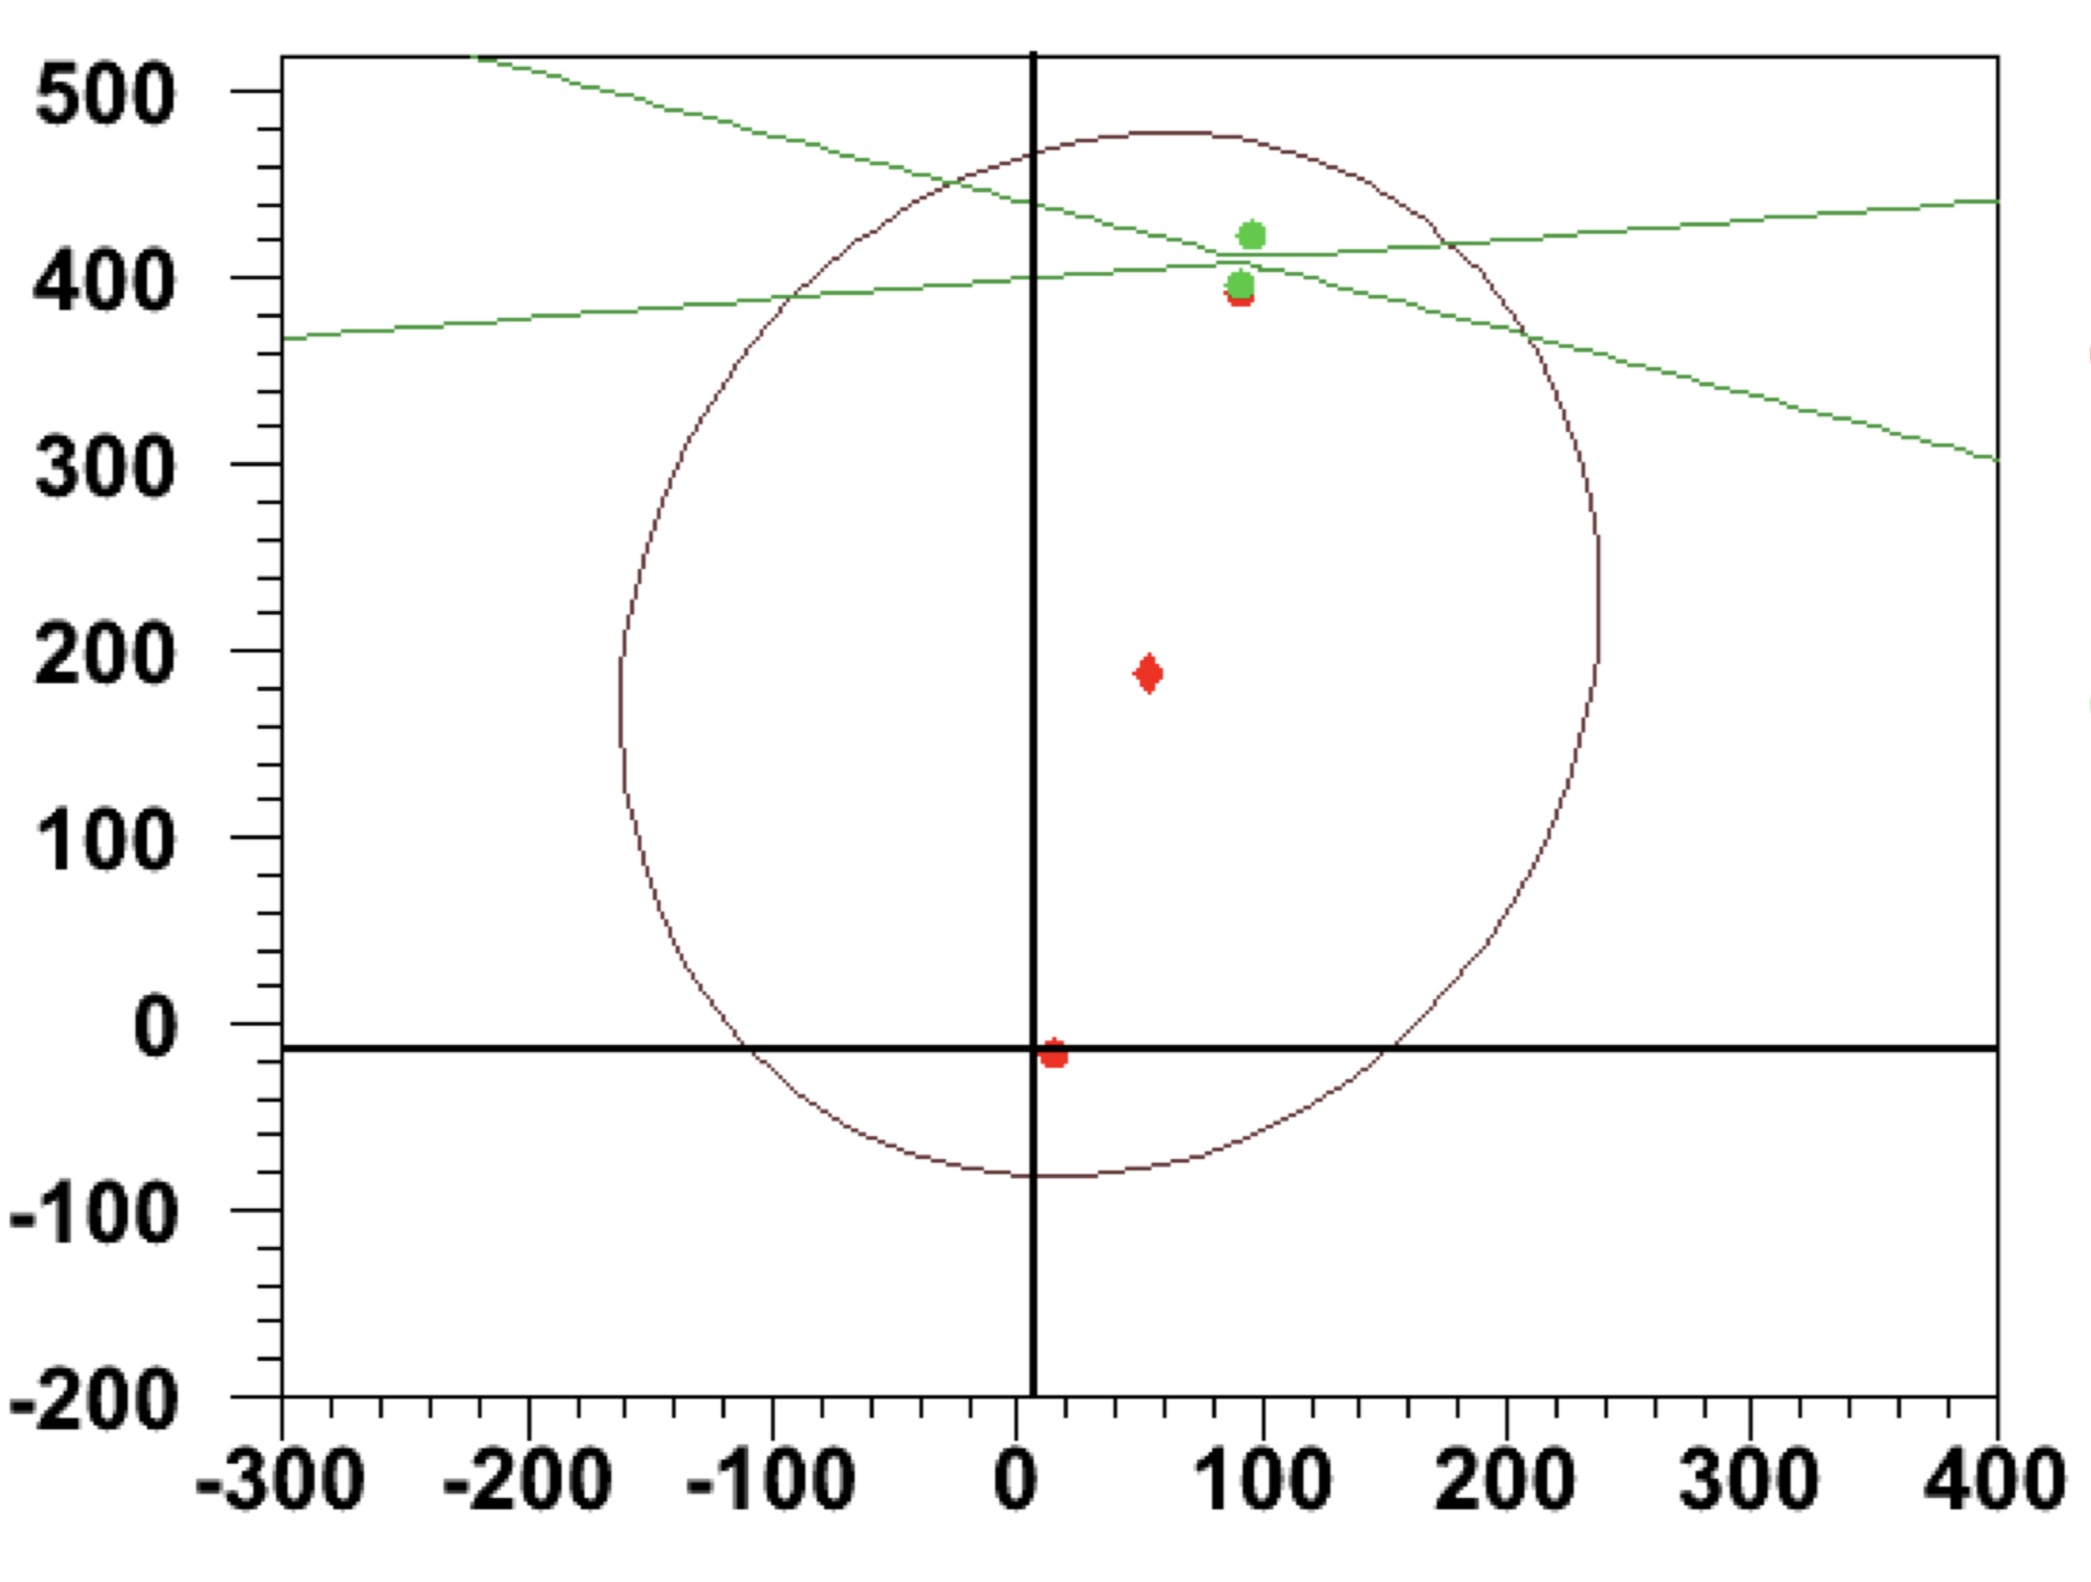
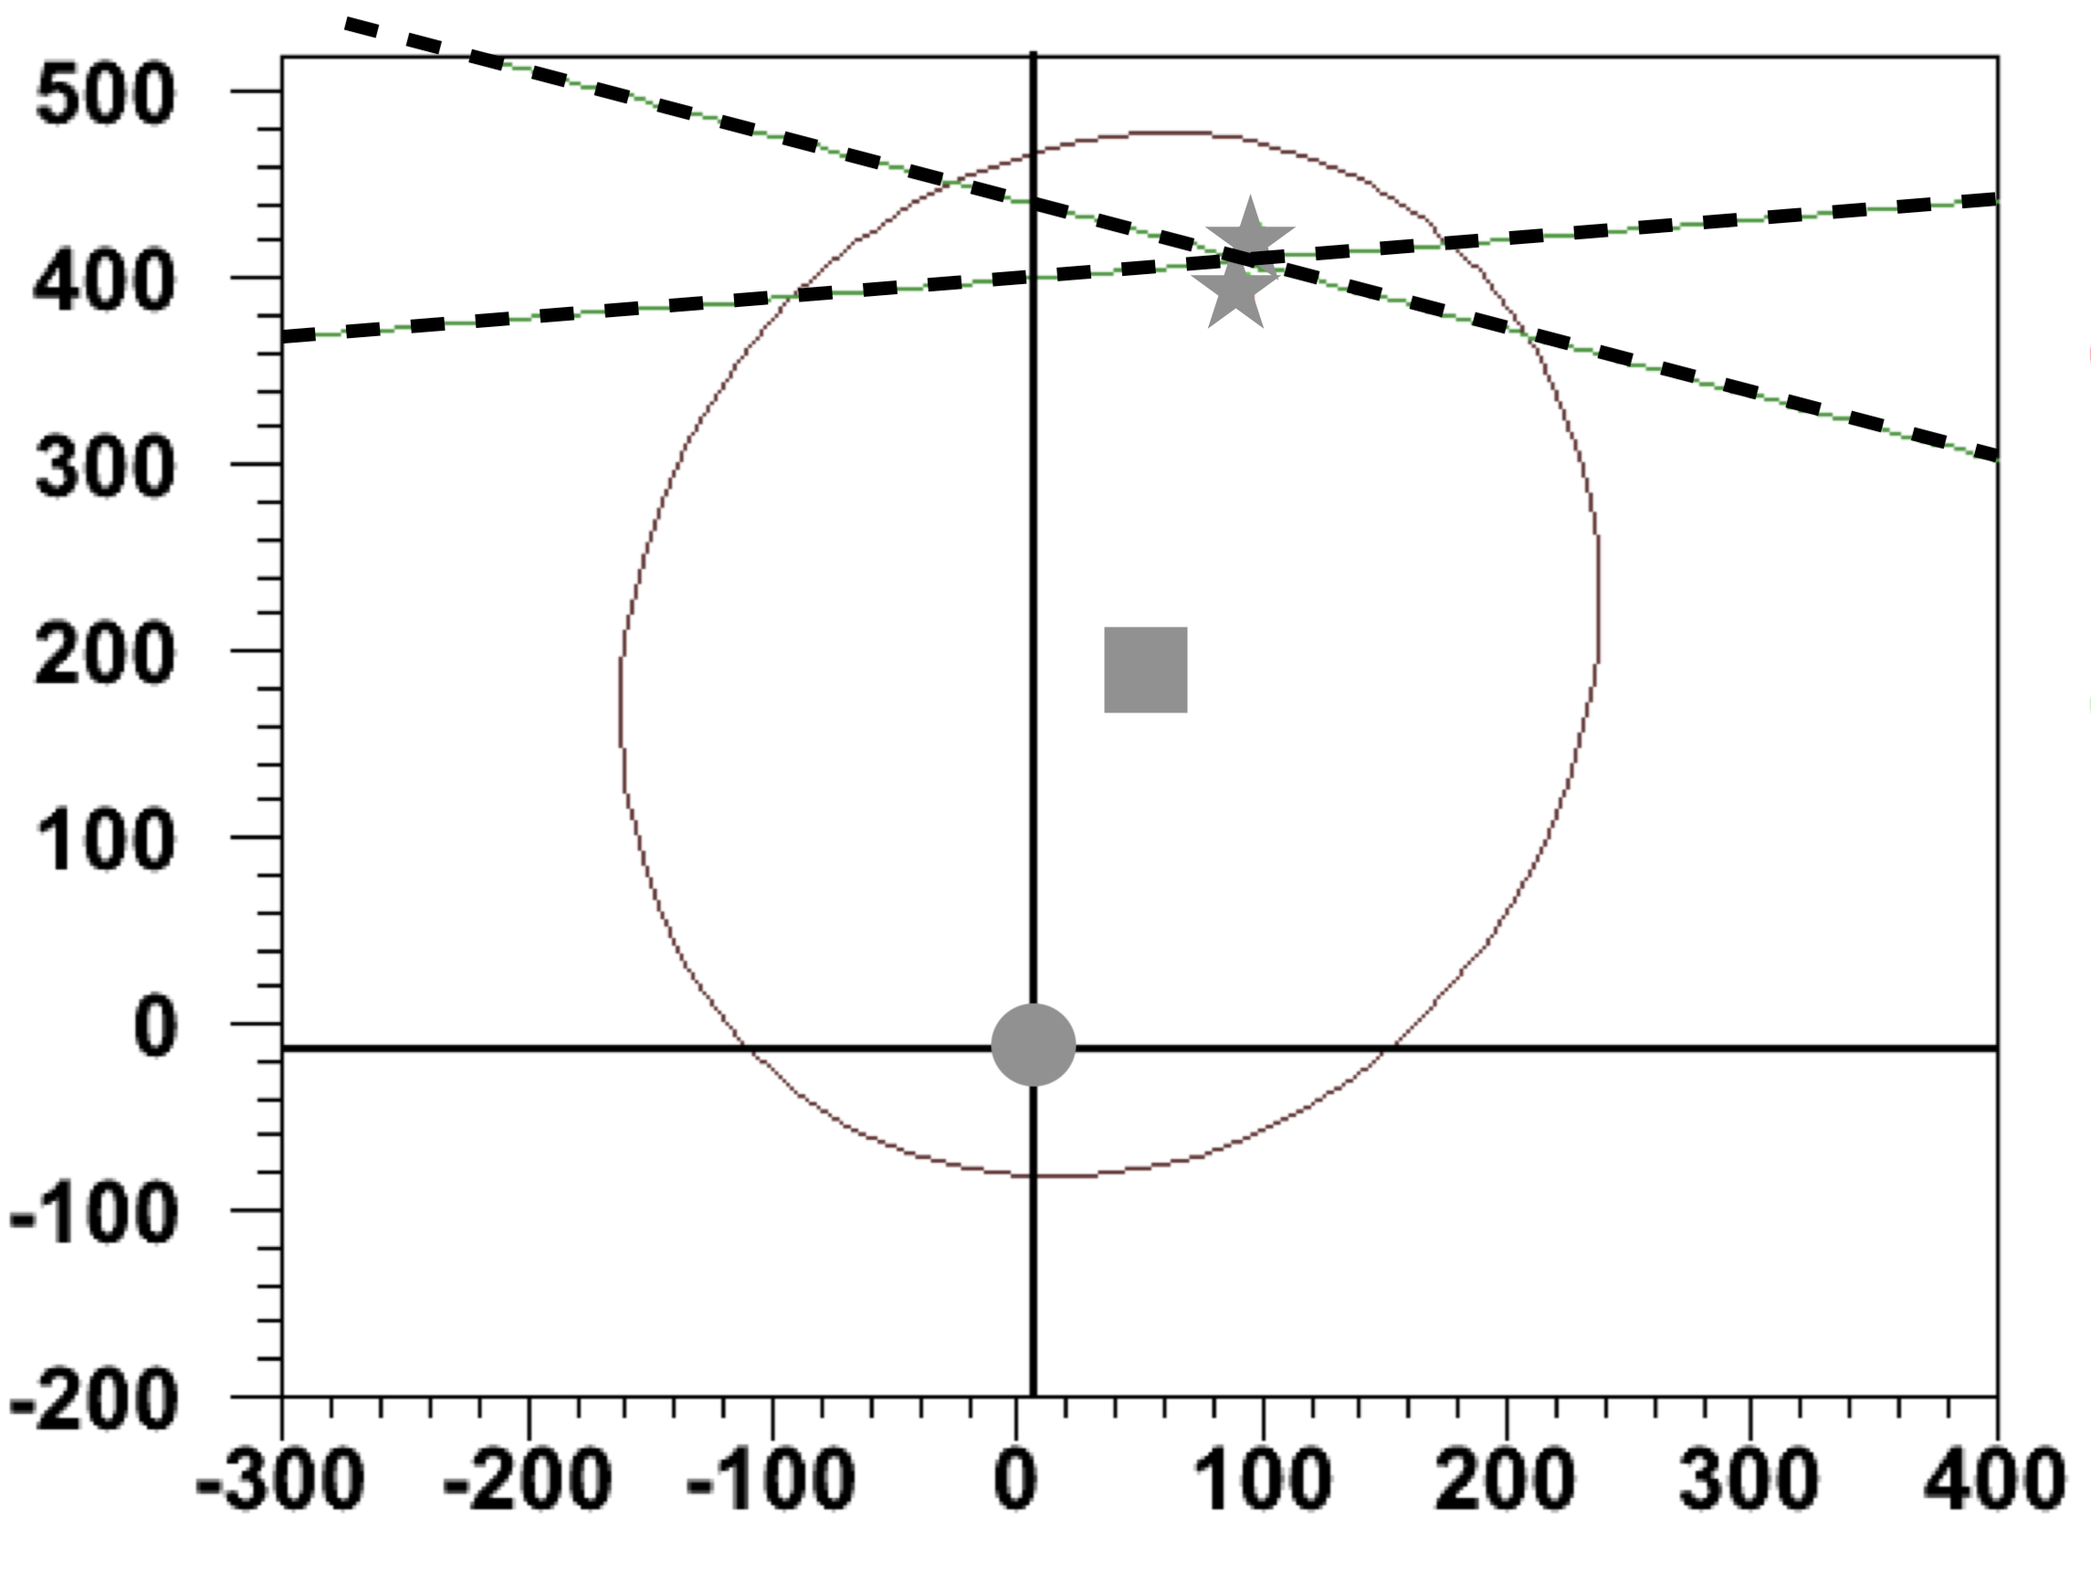
simulation, conclusion corrections, mirror maths pics improvements

diff --git a/ltcc/simulation.tex b/ltcc/simulation.tex
@@ -7,24 +7,25 @@ A 3D view of the simulated geometry of the LTCC is shown in \F{simOverview}.
 
 \begin{figure}
 	\centering
-	\includegraphics[width=0.95\columnwidth,keepaspectratio]{img/simOverview.png}
-	\caption{The geant4 model of the LTCC implemented in GEMC. This view correspond to the Run Group A CLAS12 experiments
-				where the LTCC sectors 2, 3, 5 and 6 were present. In this picture the hyperbolic mirrors and some magnetic shields
-            in sector3 (upper right) have been made transparent to show details of the Winston Cones (grey) and magnetic shields (black).}
+	\includegraphics[width=0.99\columnwidth,keepaspectratio]{img/simOverview.png}
+	\caption{The Geant4 model of the LTCC implemented in GEMC \cite{gemc2019}. This setup corresponds to the
+             initial LTCC configuration for the first CLAS12 production running in spring 2018
+			 where the LTCC sectors 2, 3, 5 and 6 were present. In this picture the hyperbolic mirrors and some magnetic shields
+             in sector 3 (upper right) have been made transparent to show details of the Winston cones (grey) and magnetic shields (black).}
 	\label{fig:simOverview}
 \end{figure}
 
 \subsection{Geometry}
 
-The Cherenkov light is emitted on a small cone around the direction of the emitting particle. The angle of
-incidence of the particles entering the LTCC can be different from the angle at the production vertex due
+The Cherenkov light is emitted on a small cone around the direction of the emitting particle. The polar angle of
+the particles entering the LTCC can be different from the polar angle at the production vertex due
 to the bending of the tracks inside the toroidal magnetic field.
 Instead of having two sets of mirrors, one aligned for in-bending (toward the beamline) and one aligned for
 out-bending (away from the beamline) particles, the optics of the mirrors was designed to maximize the
-light collection of optical photons originating from the target (placed on the center of the CLAS12 coordinate system),
+light collection of optical photons originating from the target (placed at the center of the CLAS12 coordinate system),
 to average the cases for the two charged particles.
 
-The mirror shapes were described mathematically by ellipsoid and hyperbolic curves.
+The mirror shapes were described mathematically by ellipsoidal and hyperbolic curves.
 The ellipsoid first focal point is the target location and the second focal point was chosen
 to place the mirrors as far back in the box as possible to maximize the amount of gas seen by the tracks.
 The second ellipsoid focal point overlaps with the hyperbolic first focal point. The hyperbole shape was optimized to focus the light
@@ -33,67 +34,73 @@ collection on PMTs placed on the shadow of the torus magnet coil, near the LTCC 
 
 \begin{figure}
 	\centering
-	\includegraphics[width=0.95\columnwidth,keepaspectratio]{img/mirrorMath1.png}
-	\includegraphics[width=0.95\columnwidth,keepaspectratio]{img/mirrorMath2.png}
-	\caption{Top: The ellipsoid shape (black line), with its center (red diamond) and the two focal points (red circles). The two hyperbolas
-			   that have the corresponding focal points (green circles) are the green curves. Bottom: details of the mirrors azimuthal limits: the triangles represent
-            the elliptical mirror left and right edges. The crosses are the hyperbolic mirrors edges. All these parameters are stored in databases and
-            loaded in the software modeling the LTCC mirrors in the GEMC simulation.}
+	\includegraphics[width=0.98\columnwidth,keepaspectratio]{img/mirrorMath1.png}
+	\includegraphics[width=0.98\columnwidth,keepaspectratio]{img/mirrorMath2.png}
+	\caption{The geometry of the LTCC mirrors is defined my the mathematical equations of the ellipse and hyperbola.
+             Top: the ellipsoidal curve (solid line), with its center (square) and its focal points
+             (circle at the origin, representing the target, and the bottom star).
+             The two hyperbolas curves, defined by the two focal points (stars, one coinciding with the ellipse
+			 focal point and the other at the desired location of the PMT) are the dashed lines. The
+			 hyperbola at the bottom is the one that define the hyperbolic mirror.
+             Bottom: zoomed in details of the setup above. The squares represent the mirrors left and right edges.
+             These parameters are stored in databases and loaded in the software modeling the LTCC mirrors
+             in the GEMC simulation \cite{gemc2019}.}
 	\label{fig:mirrorMath}
 \end{figure}
 
-In the geant4 implementation the elliptical mirrors are composed by, for each segment:
+In the Geant4 implementation the elliptical mirrors are produced in three steps, each a boolean operation of volumes:
 
 \begin{enumerate}
-	\item ellipse shells: the subtraction of two ellipsoidal volumes, rotated and centered on their designed position for the mirrors on the right side of the box.
-	\item ellipse azimuthal slices: subtraction of the shells with left and right boxes to ``cut'' the mirrors left and right edges
-	\item placed mirrors: the resulting volumes,  are then copied to their left side of the box counterpart.
+	\item make ellipsoidal mirror shells: by subtracting of two ellipsoidal volumes, rotated and centered on their designed position.
+	\item cut out the mirrors from the shells: subtraction of the shells with left, right, top, and bottom boxes.
+	\item place cut out mirrors: rotate and place the mirrors in the final position within the LTCC mother volume.
 \end{enumerate}
 
-The hyperbolic mirrors are made by polycon that approximate the mathematical shape of the mirrors using a number of faucets
-varying from 10 (smallest mirror) to 30 faucets (longest mirrors). The measured reflectivity is imported in the simulation as
-optical property of the mirror material.
+The hyperbolic mirrors are made by Geant4 ``polycons'' that approximate the shape of the mirrors using a number of facets
+varying from 10 (smallest mirror) to 30 (longest mirrors). The measured reflectivity is included in the simulation as
+an optical property of the mirror material.
 
-
-The CAD engineering models of the WC have been used in the simulations, see \F{wcSimulation}. The measured reflectivity is imported in the simulation as
-optical property of the WC material. The WC and the PMTs volumes are surround by boxes of mu-metal that model the LTCC magnetic shields, see \F{simShield}.
+The CAD engineering models of the WCs have been used in the simulations, see \F{wcSimulation}.
+The measured reflectivity is included in the simulation as an optical property of the WC material.
+The WC and the PMT volumes are surrounded by boxes of mu-metal that model the LTCC magnetic shields, see \F{simShield}.
 
 \begin{figure}
 	\centering
-	\includegraphics[width=0.95\columnwidth,keepaspectratio]{img/wcLargeReal.png}
-	\includegraphics[width=0.95\columnwidth,keepaspectratio]{img/wcLargeSim.png}
-	\caption{Top: a picture of the large WC used for segments 12 to 18. Bottom: the tessellated volume used in the
+	\includegraphics[width=0.99\columnwidth,keepaspectratio]{img/wcLargeReal.png}
+	\includegraphics[width=0.99\columnwidth,keepaspectratio]{img/wcLargeSim.png}
+	\caption{Top: a photograph of the large WC used for segments 12 to 18. Bottom: the tessellated volume used in the
             simulation, imported from the CAD engineering model.}
 	\label{fig:wcSimulation}
 \end{figure}
 
 \begin{figure}
 	\centering
-	\includegraphics[width=0.95\columnwidth,keepaspectratio]{img/simShield.png}
-	\caption{The magnetic shields are modeled by metal boxes in the GEMC simulations (black). The WC (grey) focus the light on the red PMT surface.}
+	\includegraphics[width=0.99\columnwidth,keepaspectratio]{img/simShield.png}
+	\caption{The magnetic shields are modeled by mu-metal boxes in the GEMC simulations (black). The WC (grey) focus the light on the red PMT surface.}
 	\label{fig:simShield}
 \end{figure}
 
 
-The LTCC box support structure was imported from the engineering model shown in \F{boxCut}. This includes the 1 cm thick aluminum
-elliptical and hyperbolic mirror support flanges, the nose and the hardware mount to the CLAS12 beam line.
+The LTCC box support structure was imported from the engineering model shown in \F{boxCut}. This includes the 1-cm thick aluminum
+elliptical and hyperbolic mirror support flanges, the nose, and the hardware mount to the CLAS12 beamline.
 
 
 \subsection{Digitization}
 
-In the digitization the number of collected photons detected is converted to ADC by taking into account:
+In the digitization the number of collected photons is converted to charge by taking into account:
 
 \begin{itemize}
 	\item The quantum efficiency of the PMTs
-	\item The position and width of the single photo-electron peak as stored in the CCDB database after calibration
+	\item The position and width of the single photo-electron peak as stored in the CLAS12 calibration database
 \end{itemize}
 
 
 \subsection{Run Period Variations}
 
-As the CLAS12 experiments started, not all sectors could be filled with the the $C_4F_{10}$ gas, thus some sectors where removed from the
-forward carriage. As they were installed or removed from the forward carriage, gas leaks were found and fixed. These geometry changes are imported in the simulations as database
-variations. The default simulations only includes Sector 2 (S2), S3, S5 and S6 as the RICH detector is replacing S1 and S6.
+As the start of CLAS12 beam operations, there was not sufficient $C_4F_{10}$ gas to fill all sectors, so some LTCC sectors
+where removed from the Forward Carriage. As they were installed or removed, any gas leaks were found and fixed.
+These CLAS12 configuration changes are imported in GEMC as database variations of the simulation setup.
+The default simulations only include sector 2 (S2), S3, S5, and S6 as the RICH detector replaces the LTCC S1 and S4.
 The variations are listed in Table \ref{tab:simVariations}.
 
 \begin{table}
@@ -103,13 +110,13 @@ The variations are listed in Table \ref{tab:simVariations}.
 			Run Period       & Sectors Installed and Gas \\
 			\hline
 			Default          & S2, S3, S5, S6, all $C_4F_{10}$    \\
-			RGA Spring 2018  & S2, S3, S6 (N2), S5 ($C_4F_{10}$)  \\
-			RGA Fall 2018    & S3 ($C_4F_{10}$), S5 (N2)          \\
+			RGA Spring 2018  & S2, S3, S6 (N$_2$), S5 ($C_4F_{10}$)  \\
+			RGA Fall 2018    & S3 ($C_4F_{10}$), S5 (N$_2$)          \\
 			RGB Spring 2018  & S3 ($C_4F_{10}$), S5 ($C_4F_{10}$) \\
 			\hline \hline
 		\end{tabular}
 	\end{center}
-	\caption{LTCC Simulations variations for different run periods. Shown are which sectors are present and the gas in each sector}
+	\caption{LTCC simulation variations for different CLAS12 run periods. Shown are which sectors are present and the gas in each sector}
 	\label{tab:simVariations}
 \end{table}
 

diff --git a/ltcc/conclusionsAndAcknowledgement.tex b/ltcc/conclusionsAndAcknowledgement.tex
@@ -1,15 +1,16 @@
 \section{Conclusion}
 
 To address the change of its scope from electron to pion identification for momenta
-greater than 3.5 GeV, the LTCC has been refurbished. The work included improvements of reflectivities for mirrors and Winston Cones, p-terphenyl
-coating the of PMTs, expansion of the gas volumes, redesign of box walls and new patch panel.
+greater than 3.5 GeV, the LTCC has been refurbished. The work included improvements of the
+reflectivities for the mirrors and the Winston cones, p-terphenyl
+coating of the PMTs, expansion of the gas volumes, and redesign of the box walls and patch panels.
 The LTCC detector sectors after refurbishment are show in \F{ltccInstalled}.
-
+Performance conclusion here too.
 
 \begin{figure}
 	\centering
 	\includegraphics[width=1.0\columnwidth,keepaspectratio]{img/ltccInstalled.png}
-	\caption{The LTCC sectors installed after refurbishment on the CLAS12 forward carriage.}
+	\caption{The LTCC sectors installed after refurbishment on the CLAS12 Forward Carriage.}
 	\label{fig:ltccInstalled}
 \end{figure}
 
@@ -17,8 +18,9 @@ The LTCC detector sectors after refurbishment are show in \F{ltccInstalled}.
 \section{Acknowledgments}
 
 We thank the Detector Support Group at Jefferson Lab for the work on the cone refurbishment, reflectivity tests,
-PMT dividers modification and installation, gas control system and software.
+PMT divider modifications and installation, and for designing the gas control system and associated software.
 We thank Temple University for the p-terphenyl deposition. We thank Vladimir Popov for the implementation
-of the divider base modification. We thank the Tech team of Hall-B for their work
-and dedication on all aspect of the project. Finally, we thank all the Hall-B staff for their unyielding support.
+of the divider base modification. We thank Youri Sharabian and Steve Christo for their consultations and contributions.
+We thank the Tech team of Hall B for their work and dedication on all aspect of the project.
+Finally, we thank all the Hall B staff for their unyielding support.
 

diff --git a/ltcc/requirements.tex b/ltcc/requirements.tex
@@ -14,7 +14,7 @@ The LTCC requirements to allow for an adequate pion/kaon discrimination include:
 The azimuthal and polar coverage achieved in the CLAS 6 GeV era and was modified by the refurbishment:
 the distance between the target and the LTCC was increased by about 2 m in CLAS12. This brought some of the passive
 elements into the active area of the detectors behind the LTCC, namely the support structure of the mirrors, the Winston
-Cones, the PMT magnet shields, and the detector walls.
+cones, the PMT magnet shields, and the detector walls.
 
 The radiation length of the detector was minimized by placing the light collecting cones and photomultiplier tubes
 in the regions obscured by the torus magnet coils. In the active area the window radiation length is 0.02$\%$.

diff --git a/ltcc/refurbishment.tex b/ltcc/refurbishment.tex
@@ -134,7 +134,7 @@ The design changes of the LTCC are summarized below:
 	\item Increase light yield:
 	\begin{enumerate}
 		\item Re-coat all mirrors
-		\item Re-coat Winston Cones
+		\item Re-coat Winston cones
 		\item Wavelength shifting re-coating of the PMTs
 		\item Modify small angle nose to increase gas volume
 	\end{enumerate}
